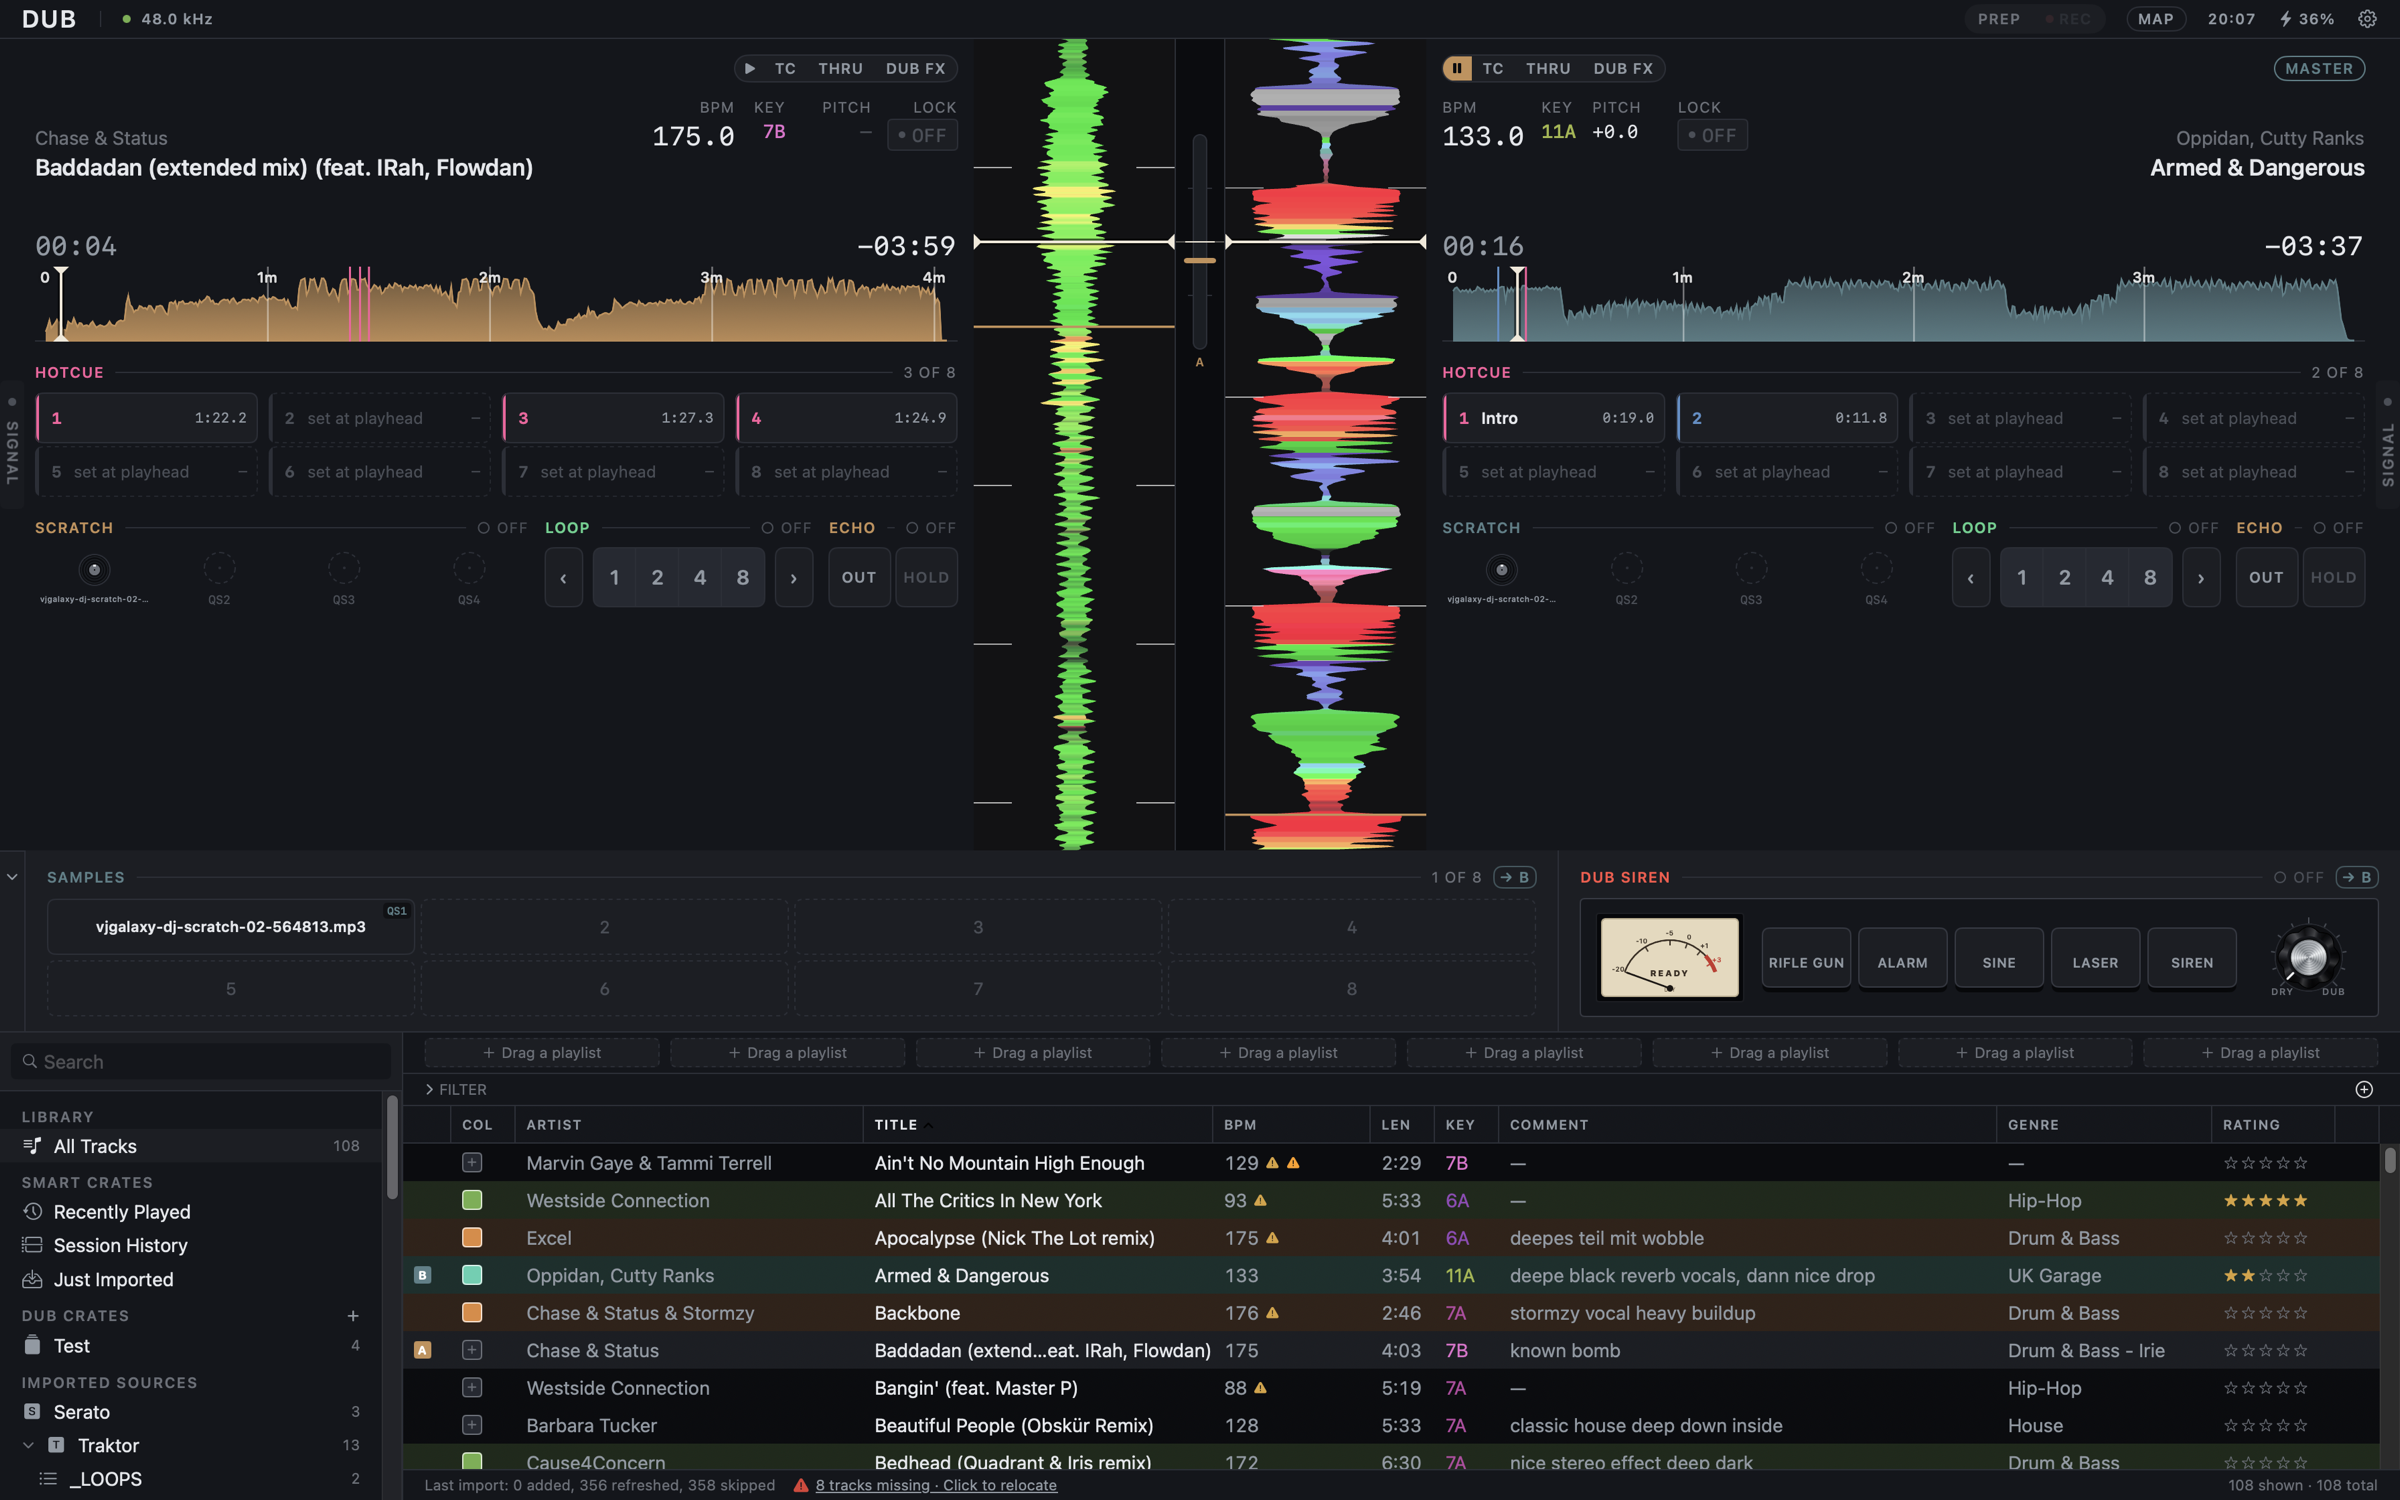
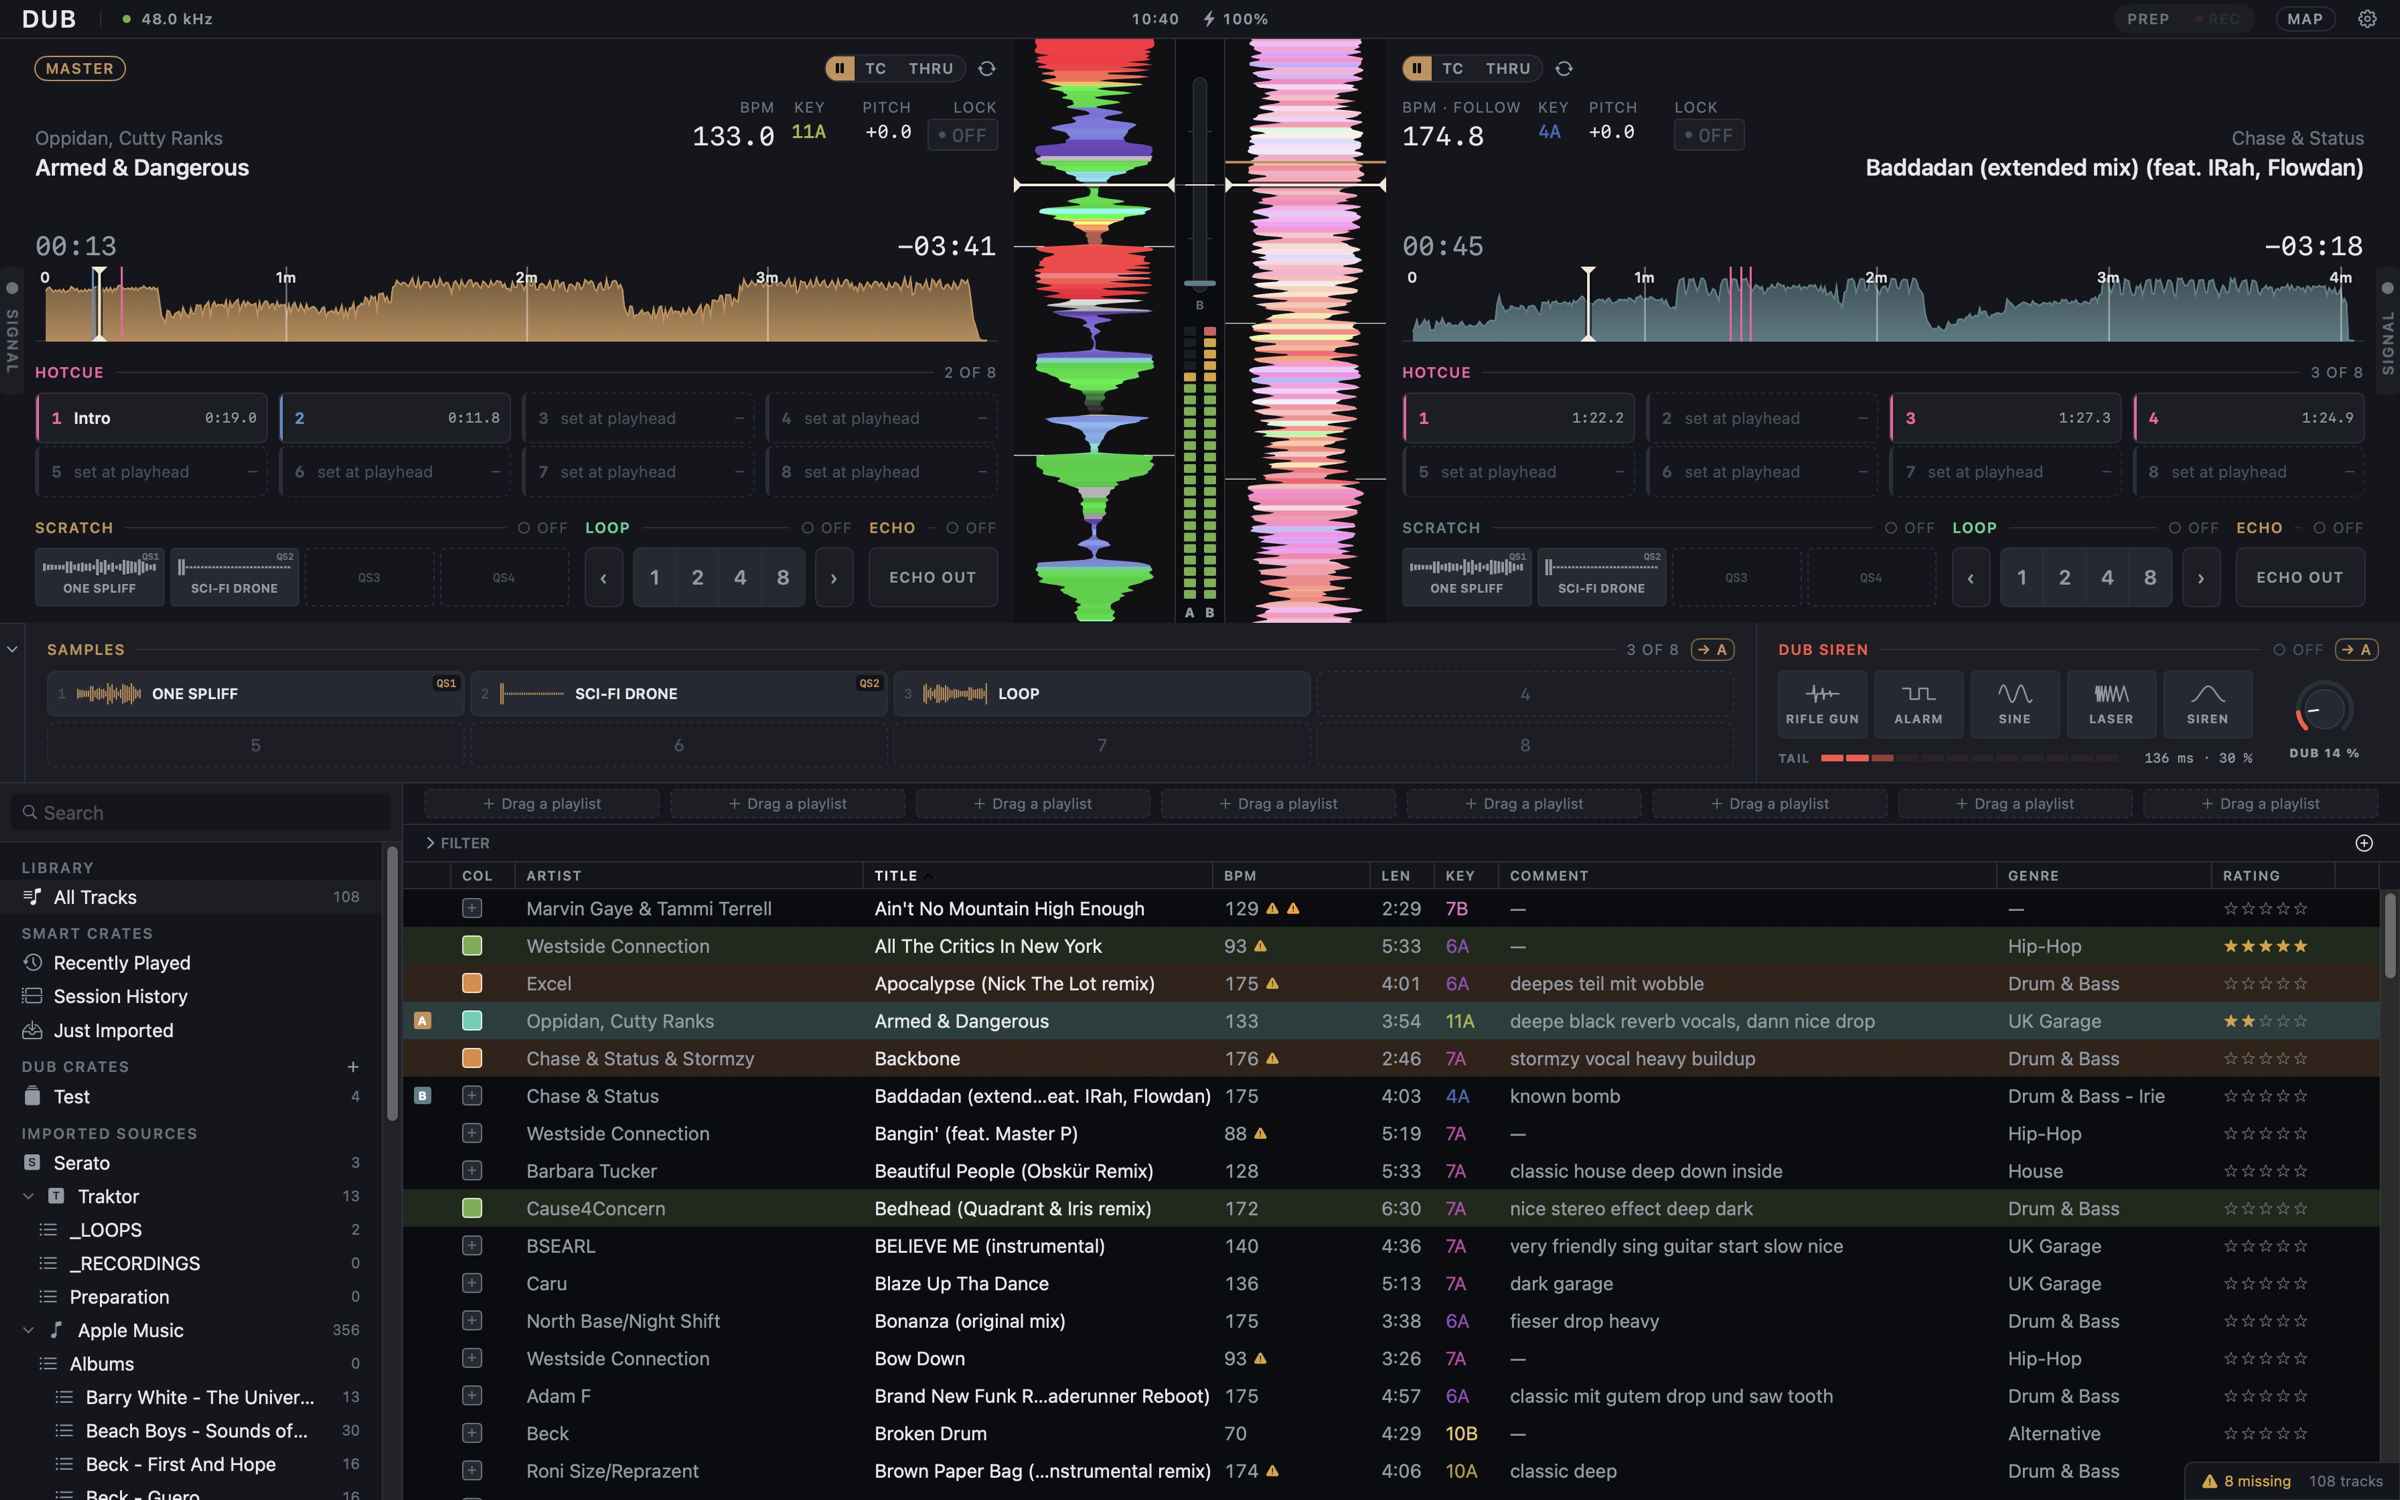
docs(readme): new screenshots of the current layout
The Performance and Prep shots predated the layout pass (Quick Scratch
still drawn as spinning records, the old siren box). Retaken in the real
app: two decks playing with the rack open, Prep with named cues, and
the siren strip cropped from the same capture, with named sample pads.
The siren's alt text no longer mentions the VU meter.

Claude-Session: https://claude.ai/code/session_01DNzVRr8ZyHw3P1suzxGywf

diff --git a/README.md b/README.md
@@ -106,7 +106,7 @@ default, under **Preferences ▸ Alpha**.*
 
 ### Dub siren
 
-<img src="docs/images/siren.png" alt="The sampler and the dub siren with its VU meter and DUB knob" width="100%">
+<img src="docs/images/siren.png" alt="The sampler's named pads and the dub siren's five shots, tail meter and DUB knob" width="100%">
 
 Five shots — Rifle Gun, Alarm, Sine, Laser, Siren — through their own
 PT2399-style echo, with one **DUB** knob from dry to drenched. It is an
